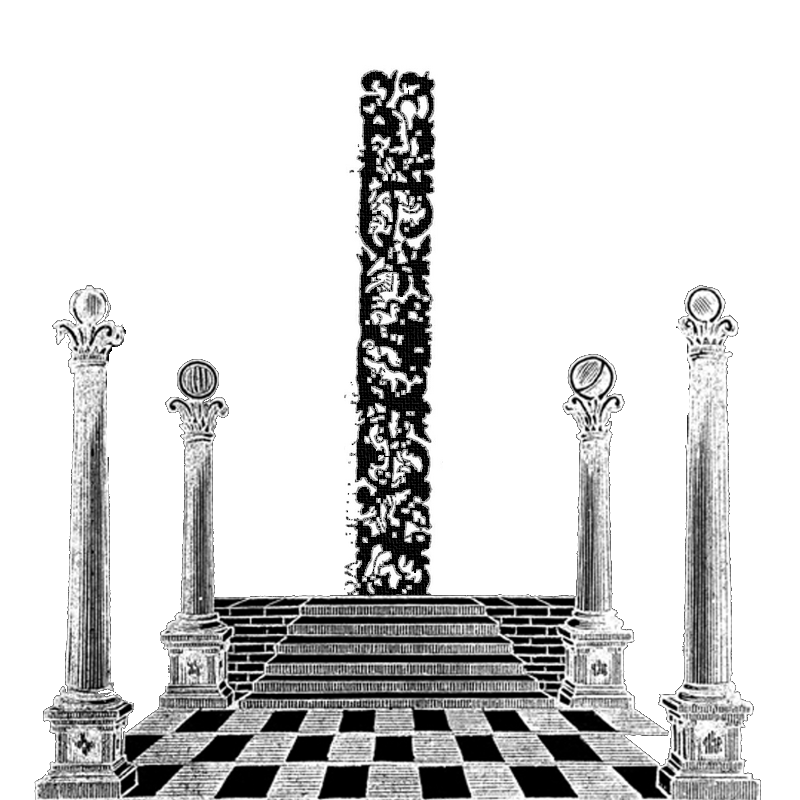
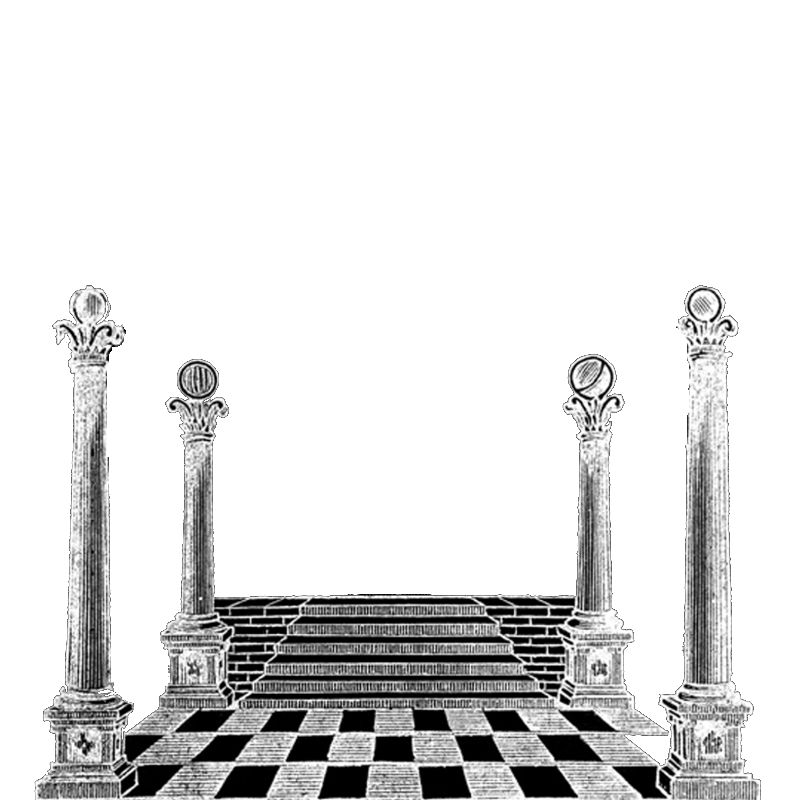
title screen and small fix

Changed region(s): [[0.4375, 0.0625, 0.5625, 0.75]]

diff --git a/oskrabat.cpp b/oskrabat.cpp
@@ -61,7 +61,7 @@ int main(int argc, char **argv) {
     must_init(al_install_keyboard(),"keyboard");
     must_init(al_init_image_addon(), "image");
     
-    ALLEGRO_TIMER *timer = al_create_timer(1.0/60.0);
+    ALLEGRO_TIMER *timer = al_create_timer(1.0/30.0);
     must_init(timer, "timer");
 
     ALLEGRO_EVENT_QUEUE *queue = al_create_event_queue();
@@ -77,26 +77,31 @@ int main(int argc, char **argv) {
     // -----------------------------
     Sprite background("./res/background.png");
     Sprite background2("./res/background2.png");
+    Sprite border("./res/border.png");
+    Sprite title_text("./res/title.png");
    
-    background.set_xy(0,0); background2.set_xy(0,0);
+    background.set_xy(0,10); background2.set_xy(195,40);
+    border.set_xy(0,0); border.shift(-5,-5);
+    title_text.set_xy(170,240);
 
     Character p1("./res/p1up.png", "./res/p1down.png",200); p1.set_xy(210,550);
     Character p2("./res/p2up.png", "./res/p2down.png",200); p2.set_xy(445,550);
 
-    Meat meat1("./res/meat.png"); meat1.resize_h(50); meat1.set_xy(350,100);
-    Meat meat2("./res/meat.png"); meat2.resize_h(50); meat2.set_xy(350,275);
-    Meat meat3("./res/meat.png"); meat3.resize_h(50); meat3.set_xy(350,450);
+    Meat meat1("./res/meat.png"); meat1.resize_h(50); meat1.set_xy(360,100);
+    Meat meat2("./res/meat.png"); meat2.resize_h(50); meat2.set_xy(360,275);
+    Meat meat3("./res/meat.png"); meat3.resize_h(50); meat3.set_xy(360,450);
 
-    Bonewand bw1("./res/bonewand.png",100,1); bw1.set_xy(10,200);
-    Bonewand bw2("./res/bonewand2.png",100,0); bw2.set_xy(590,200);
+    Bonewand bw1("./res/bonewand.png",80,1); bw1.set_xy(60,200);
+    Bonewand bw2("./res/bonewand2.png",80,0); bw2.set_xy(580,200);
     
-    bw1.set_speed(5);
-    bw2.set_speed(5);
+    bw1.set_speed(15);
+    bw2.set_speed(15);
 
     unsigned int winner = WINNER_NONE;
 
     // Configuring events
 
+    bool title = true;
     bool running = true;
     bool redraw = true;
 
@@ -121,13 +126,18 @@ int main(int argc, char **argv) {
 
                 // Key events
                 if(key[ALLEGRO_KEY_ESCAPE] || key[ALLEGRO_KEY_Q]) running = false; // quit the game
-                if(key[ALLEGRO_KEY_X]) bw1.stab(&meat1,&meat2,&meat3);
-                if(key[ALLEGRO_KEY_M]) bw2.stab(&meat1,&meat2,&meat3);
-                if(key[ALLEGRO_KEY_LEFT]) p1.get_squish() ? p1.unsquish() : p1.squish();
-                if(key[ALLEGRO_KEY_RIGHT]) p2.get_squish() ? p2.unsquish() : p2.squish();
 
-                if (rand() % 1200 == 0) {
-                    unsigned int spd = 5 + rand()%10;
+                if (title){
+                    if(key[ALLEGRO_KEY_SPACE]) title = false;
+                } else {
+                    if(key[ALLEGRO_KEY_X]) bw1.stab(&meat1,&meat2,&meat3);
+                    if(key[ALLEGRO_KEY_M]) bw2.stab(&meat1,&meat2,&meat3);
+                    if(key[ALLEGRO_KEY_LEFT]) p1.get_squish() ? p1.unsquish() : p1.squish();
+                    if(key[ALLEGRO_KEY_RIGHT]) p2.get_squish() ? p2.unsquish() : p2.squish();
+                }
+
+                if (rand() % 600 == 0) {
+                    unsigned int spd = 10 + rand()%10;
                     bw1.set_speed(spd);
                     bw2.set_speed(spd);
                 }
@@ -156,31 +166,45 @@ int main(int argc, char **argv) {
             al_clear_to_color(al_map_rgb(0,0,0));
 
             // shift the eye guy around randomly
-            background2.randomshift(1,6);
-            
-            // update the movement of the bone wands
-            if      (meat1.get_falling()) meat1.fall(&winner);
-            else if (meat2.get_falling()) meat2.fall(&winner);
-            else if (meat3.get_falling()) meat3.fall(&winner);
-            else {bw1.update(); bw2.update();}
+            background2.randomshift(1,20);
+            border.randomshift(1,2);
+            p1.randomshift(1,1); p2.randomshift(1,1);
 
-            switch(winner){
-                case WINNER_P1:
-                    p2.squish();
-                    break;
-                case WINNER_P2:
-                    p1.squish();
-                    break;
-                case WINNER_NONE:
-                    break;
-            }
-
-            // Do projections
+            // Do background projections
             background2.proj();
             background.proj();
+            border.proj();
             p1.proj(); p2.proj();
-            bw1.proj(); bw2.proj();
-            meat1.proj(); meat2.proj(); meat3.proj();
+
+            if(!title){
+
+                // this is literally all the game logic lmao
+
+                meat1.randomshift(1,1); meat2.randomshift(1,1); meat3.randomshift(1,1);
+                
+                // update the movement of the bone wands
+                if      (meat1.get_falling()) meat1.fall(&winner);
+                else if (meat2.get_falling()) meat2.fall(&winner);
+                else if (meat3.get_falling()) meat3.fall(&winner);
+                else {bw1.update(); bw2.update();}
+
+                switch(winner){
+                    case WINNER_P1:
+                        p2.squish();
+                        break;
+                    case WINNER_P2:
+                        p1.squish();
+                        break;
+                    case WINNER_NONE:
+                        break;
+                }
+
+                bw1.proj(); bw2.proj();
+                meat1.proj(); meat2.proj(); meat3.proj();
+            } else {
+                title_text.randomshift(1,3);
+                title_text.proj();
+            }
 
             al_flip_display();
             redraw = false;

diff --git a/sprites.cpp b/sprites.cpp
@@ -1,7 +1,7 @@
 #include "sprites.h"
 
 // overload for loading up an image in the constructor
-Sprite::Sprite(const char * const filename) { 
+Sprite::Sprite(const char * const filename) : sx(0), sy(0) { 
     image = al_load_bitmap(filename);
     w = al_get_bitmap_width(image); h = al_get_bitmap_height(image);
     nw = w; nh = h;
@@ -16,7 +16,7 @@ void Sprite::assign(const char * const filename) {
 // Function for Projecting
 void Sprite::proj(){
     al_draw_scaled_bitmap(image, 0, 0, al_get_bitmap_width(image) , al_get_bitmap_height(image) ,
-                                 _x, _y, nw, nh, 0);
+                                 _x+sx, _y+sy, nw, nh, 0);
 }
 
 // setting function for x,y
@@ -43,20 +43,20 @@ void Sprite::randomshift(unsigned int amt, signed int lmt){
 
         switch ( rnd % 8 ){
             case 1:
-                if (get_x() < lmt)
-                    shift(amt,0);
+                if ( sx < lmt)
+                    sx += amt;
                 break;
             case 2:
-                if (get_y() < lmt)
-                    shift(0,amt);
+                if ( sy < lmt)
+                    sy += amt;
                 break;
             case 3:
-                if (get_x() > -lmt)
-                    shift(-amt,0);
+                if ( sx > -lmt)
+                    sx -= amt;
                 break;
             case 4:
-                if (get_y() > -lmt)
-                    shift(0,-amt);
+                if ( sy > -lmt)
+                    sy -= amt;
                 break;
             default:
                 break;

diff --git a/bonewand.cpp b/bonewand.cpp
@@ -32,8 +32,9 @@ unsigned int Bonewand::getT(){return t;}
 void Bonewand::update(){
     if (slide){ // this is for if we're selected to slide
         if ( get_x() < 360){
-            if (get_x() > 219) { idir = 1; hitTarget(1);}
-            if (idir == 1 && get_x() == 10) {
+            if (get_x() > 229) { idir = 1; hitTarget(1);}
+            if (idir == 1 && get_x() <= 50) {
+                _x = 50;
                 idir = 0;
                 slide = false;
                 return;
@@ -41,8 +42,9 @@ void Bonewand::update(){
                 shift( pow(-1,(int)idir)*15,0);
 
         } else {
-            if (get_x() < 381) {idir = 1; hitTarget(-1);}
-            if (idir == 1 && get_x() == 590) {
+            if (get_x() < 391) {idir = 1; hitTarget(-1);}
+            if (idir == 1 && get_x() >= 580) {
+                _x = 580;
                 idir = 0;
                 slide = false;
                 return;
@@ -51,7 +53,7 @@ void Bonewand::update(){
         }
 
     } else { // this is for normal up/down movement
-        if ( get_y() > 500 || get_y() < 10) dir = !dir; 
+        if ( get_y() > 500 || get_y() < 30) dir = !dir; 
         
         shift(0,pow(-1,(int)!dir)*speed); 
         

diff --git a/meat.cpp b/meat.cpp
@@ -14,6 +14,6 @@ void Meat::hit(signed short s){
 }
 
 void Meat::fall(unsigned int * winner){
-    if (_y < 500) shift(0,2);
+    if (_y < 550) shift(0,4);
     else *winner = (status == 3) ? WINNER_P1 : WINNER_P2;
 }

diff --git a/sprites.h b/sprites.h
@@ -37,7 +37,7 @@ class Sprite{
 
     protected:
         ALLEGRO_BITMAP *image;
-        signed int _x,_y;
+        signed int _x,_y, sx,sy;
         signed int w, h, nw, nh;
 };
 
